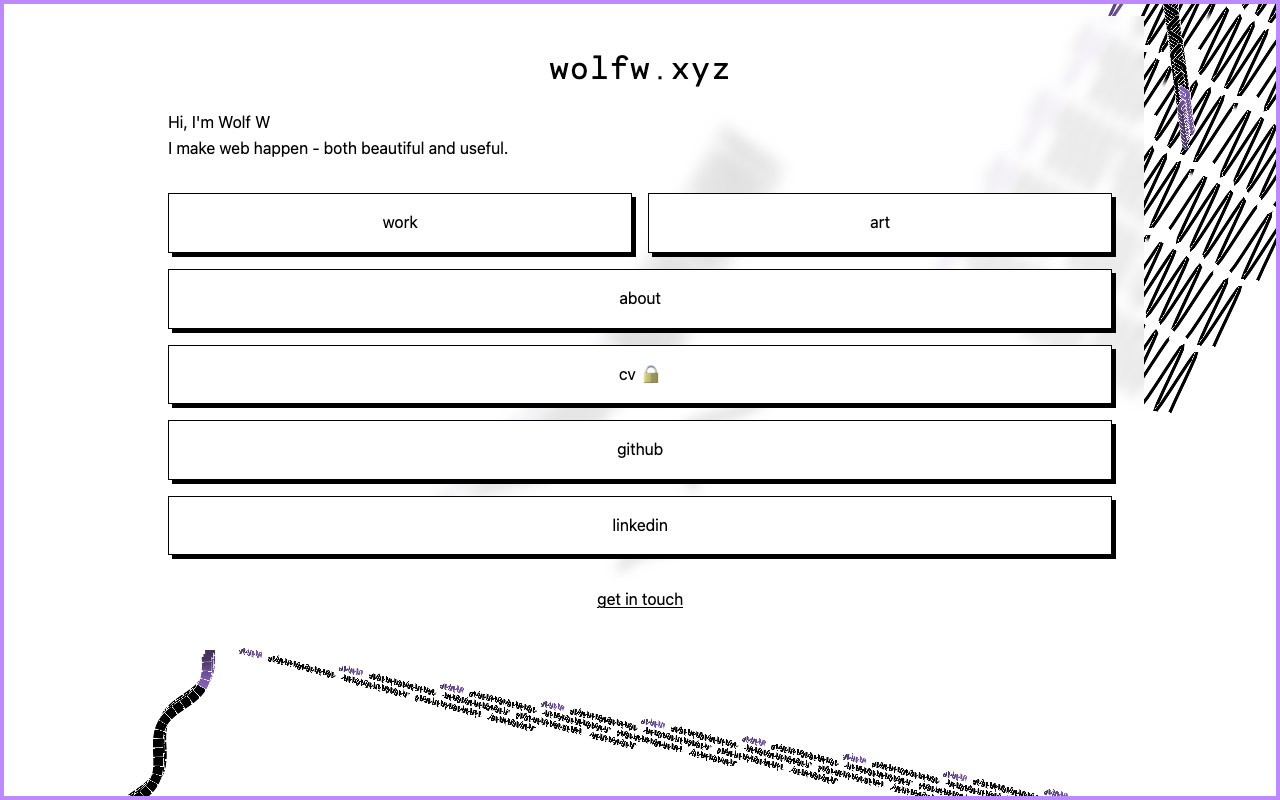
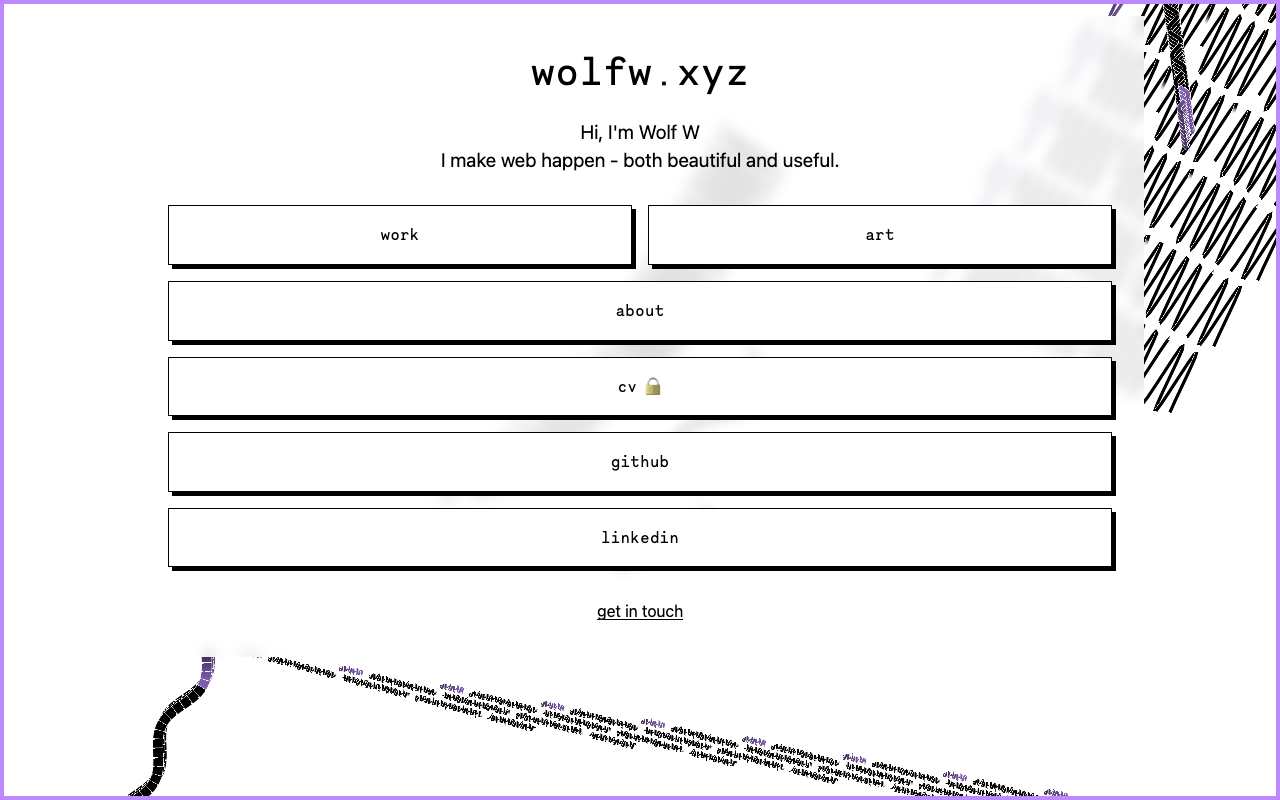
type: the scale below the h1, and three bugs the display face exposed
Critique of design/typography.md §2-§3 against the built site, verified in the
browser before acting. Five defects, all with the paper's own acceptance criteria
already written down:

1. Every button on the site was in the wrong typeface.
   global.css:186 had `font: inherit` — the font SHORTHAND, which resets
   font-family to the parent's. All ten buttons computed ui-sans-serif while the
   h1 beside them was Necto Mono. §2.1 names buttons as one of four roles where
   the display face is load-bearing; §2.6's selector list includes `.button`.
   Declaring `font-family` instead of the shorthand is the whole fix. The site
   went from three faces to two.

2. The home wordmark was not the biggest thing on the home page.
   §2.2 reserves --fs-display for "the home wordmark only" and §3.3 repeats it.
   It was rendering at --fs-h1 (33.2px), identical to every subpage title, so the
   element the paper gave the top step to did not have it. Now 39.8px.

3. The home intro was a <div>, so no rule matched it.
   §3.3: "the two-line intro at --fs-lead". As a div it inherited --fs-body at
   16px, was left-aligned (only `.centered p` centres), and sat directly under a
   centred wordmark — a ragged line floating under a centred title. Now a <p> at
   19.2px, centred, as specified.

4. A hidden button was visible.
   `.button { display: block }` outranks the UA's `[hidden] { display: none }`, so
   Facts.astro:40's "send me some some facts" rendered on /about before anything
[…]

diff --git a/rebuild/src/styles/global.css b/rebuild/src/styles/global.css
@@ -179,17 +179,41 @@ p + p {
 .button {
   border: 1px solid #000;
   display: block;
+  /* The brutalist block is full-bleed across its container, not shrink-to-fit.
+     Form controls default to fit-content even under `display: block`, so a
+     <button> from the same component as an <a> rendered 167px against 544px —
+     the layout was silently half the width on /about.
+     border-box is load-bearing, not tidiness: with the default content-box,
+     width:100% (264px) + 32px padding + 2px border rendered 298px inside a
+     264px column and pushed the document 6px past the viewport at 320, which
+     is how B11-reflow caught it. */
+  box-sizing: border-box;
+  width: 100%;
   padding: var(--pad-item);
   margin-top: var(--space-2);
   box-shadow: 4px 4px #000;
   background-color: #fff;
-  font: inherit;
   color: inherit;
+  /* typography.md §2.1 names buttons as one of four roles where the display
+     face is load-bearing and must stay. This was `font: inherit`, and the
+     `font` SHORTHAND resets font-family to the parent's — so all ten buttons
+     on the site, the most numerous type surface on any page, computed
+     ui-sans-serif while the h1 beside them was Necto Mono. Declaring
+     `font-family` instead of the shorthand is the entire fix. */
+  font-family: var(--font-display);
   text-align: center;
   text-decoration: none;
   cursor: pointer;
   /* legacy: transition box-shadow .5s */
   transition: box-shadow 0.5s;
+}
+
+/* `display: block` above outranks the UA's [hidden] { display: none }, so a
+ * hidden Button still rendered — Facts.astro:40's "send me some some facts"
+ * was visible on /about before anything had asked for it. This has to be a
+ * separate rule because it must beat the one above. */
+.button[hidden] {
+  display: none;
 }
 
 .button:hover {
@@ -304,6 +328,18 @@ main.whitebox {
   color: inherit;
 }
 
+/* Above the media breakpoint the plate widens to --measure-media so images can
+ * breathe (typography.md §1.6.2, "widen the media, not the text"). A listing
+ * card IS media — thumbnail plus a two-line title — but .listlink was left out
+ * of that widening and kept the prose measure, which at 1440 left ~400px of
+ * empty plate to the right of every thumbnail. Matched to .project-block and
+ * .cvlist below, which is where the widening is defined. */
+@media screen and (min-width: 1200px) {
+  .listlink {
+    max-width: var(--measure-media);
+  }
+}
+
 /* ---- Focus (typography.md §2.7) -------------------------------------------
  * ONE rule for every interactive element, from tokens. 21:1 against the sheet
  * and 8.16:1 against the purple page, so it satisfies WCAG 2.2's focus-
@@ -382,12 +418,24 @@ a {
 .project-block {
   text-align: left;
   padding: var(--pad-item);
-  background-color: #fff;
+  /* legacy said `background-color:#fff`. Under D4.12 the column is already a
+   * frosted plate over the field, so an opaque white block on top of it did not
+   * make anything more readable — it cut the field off with a hard vertical seam
+   * at exactly the left edge of the text, which read as a rendering fault rather
+   * than a card. Inheriting the plate keeps the frost continuous. The plate
+   * carries the legibility budget: B6 measures 8.1:1 worst-case composited
+   * contrast with the field at full alpha, and that number is unchanged here. */
   /* typography.md §2.6 — the prose surface. `hyphens: auto` is only correct
    * once language is marked (3.1.2): with no lang, English hyphenation
    * patterns get applied to Finnish words, which is worse than none. The
    * project pages mark their Finnish titles with lang="fi" for exactly this. */
   hyphens: auto;
+  /* typography.md §2.4 sets a floor on how aggressively a word may be broken.
+   * `hyphens: auto` alone happily produced "an-alyist", "visu-alization" and
+   * "data-dri-ven" — six letters into a word — which reads as a defect rather
+   * than a hyphenation. Six characters before the break, three after, is the
+   * paper's own number and is what most dictionaries default to. */
+  hyphenate-limit-chars: 6 3 3;
   max-width: var(--measure-text);
   margin-inline: auto;
 }
@@ -517,6 +565,23 @@ a {
   max-width: none;
 }
 
+/* typography.md §2.2 / §3.3 — the home wordmark is the only element on the site
+ * that takes the display step. Using it here is what makes the home page read as
+ * a front door rather than a page title with buttons under it. */
+.wordmark {
+  font-size: var(--fs-display-fluid);
+}
+
+/* §3.3 names the sizes for home explicitly: "the wordmark at --fs-display in
+ * mono, the two-line intro at --fs-lead". The intro was inheriting --fs-body, so
+ * the poster had no hierarchy inside it at all — one step was specified and two
+ * were missing. */
+.centered .description {
+  font-size: var(--fs-lead);
+  line-height: var(--lh-fact);
+  margin-inline: auto;
+}
+
 .centered .facts-progress,
 .centered .caption {
   text-align: center;
@@ -639,8 +704,25 @@ a {
 }
 
 @media print {
-  body {
+  /* typography.md §2.9 / T3 / P6: the print size belongs on :root, not body.
+   * Every step of the type scale is a `rem`, and `rem` resolves against the
+   * ROOT font size — setting `body { font-size }` changed the inherited size for
+   * the handful of rules that use `em` or `inherit` and left the scale itself
+   * entirely untouched, so `--fs-h1` printed at 33.2px. The legacy had this on
+   * body and it is still recorded in recovered.md; it is recorded here as a
+   * correction rather than a silent departure.
+   *
+   * --fs-print is 12px against a 16px screen root, so this is a genuine 25%
+   * reduction, and it scales the whole scale with it rather than only the text
+   * that happened to inherit. */
+  :root {
     font-size: var(--fs-print) !important;
+  }
+
+  body {
+    /* No size here — see above. Leading only: 1.35 is the print value from
+     * typography.md §2.9, because the screen scale is set for a screen. */
+    line-height: 1.35 !important;
   }
 
   /* The field, buttons and back link have no meaning on paper. */
